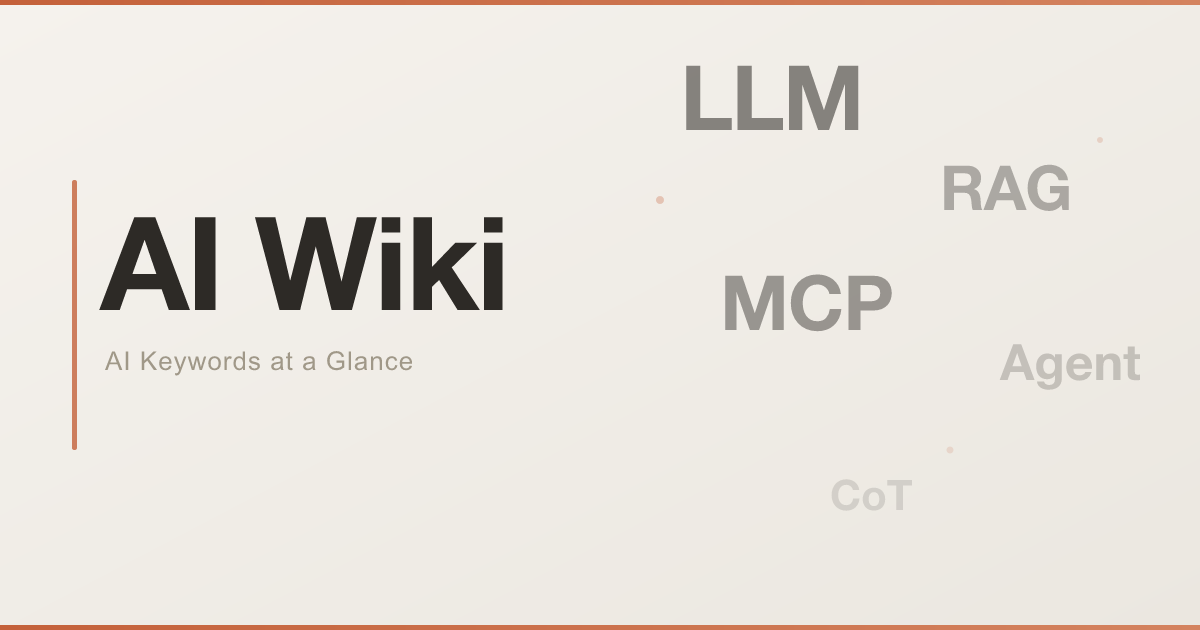
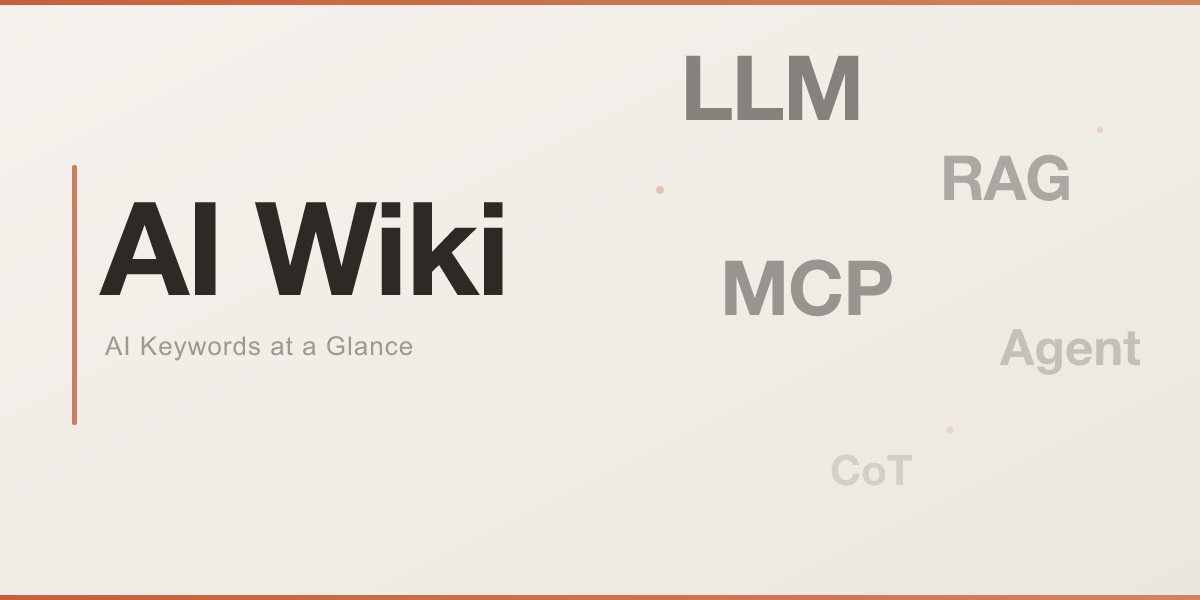
(fix) OG 썸네일 2:1 비율로 변경 — 카카오톡 직사각형 표시
- 1200x630 → 1200x600 (정확히 2:1)으로 변경
- og:image:height, 카카오 imageHeight 모두 600으로 통일

diff --git a/index.html b/index.html
@@ -20,7 +20,7 @@
 <meta property="og:locale" content="ko_KR">
 <meta property="og:image" content="https://aiword-wiki.github.io/og-thumbnail.png">
 <meta property="og:image:width" content="1200">
-<meta property="og:image:height" content="630">
+<meta property="og:image:height" content="600">
 
 <!-- Twitter Card -->
 <meta name="twitter:card" content="summary_large_image">
@@ -594,7 +594,7 @@ function shareKakao(id,btn){
   if(window.Kakao&&Kakao.isInitialized()){
     Kakao.Share.sendDefault({
       objectType:'feed',
-      content:{title:name+' - AI Wiki',description:e.sum||'',imageUrl:'https://aiword-wiki.github.io/og-thumbnail.png',imageWidth:1200,imageHeight:630,link:{mobileWebUrl:url,webUrl:url}}
+      content:{title:name+' - AI Wiki',description:e.sum||'',imageUrl:'https://aiword-wiki.github.io/og-thumbnail.png',imageWidth:1200,imageHeight:600,link:{mobileWebUrl:url,webUrl:url}}
     });
   } else {
     navigator.clipboard.writeText(name+' - AI Wiki\n'+url).then(()=>_shareFb(btn));
